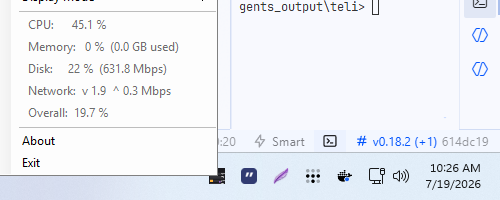
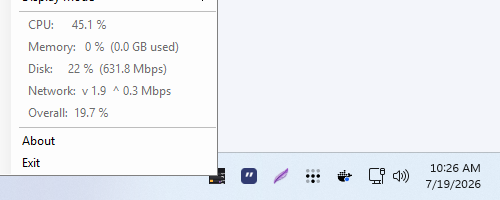
Add MIT license file; crop screenshots to taskbar; drop local path from changelog

diff --git a/CHANGELOG.md b/CHANGELOG.md
@@ -5,4 +5,3 @@ Full release history: [docs/RELEASE_LOG.md](docs/RELEASE_LOG.md).
 - **1.5.0** - current shipped build (`release/MiniTrayMon.exe`, `releases/v1.5.0/`).
 - **1.6.0** - attempted per-pixel alpha, REVERTED.
 
-Final-release copy: `D:\Final_Apps\Apps\minitraymon` (2026-10-04).
